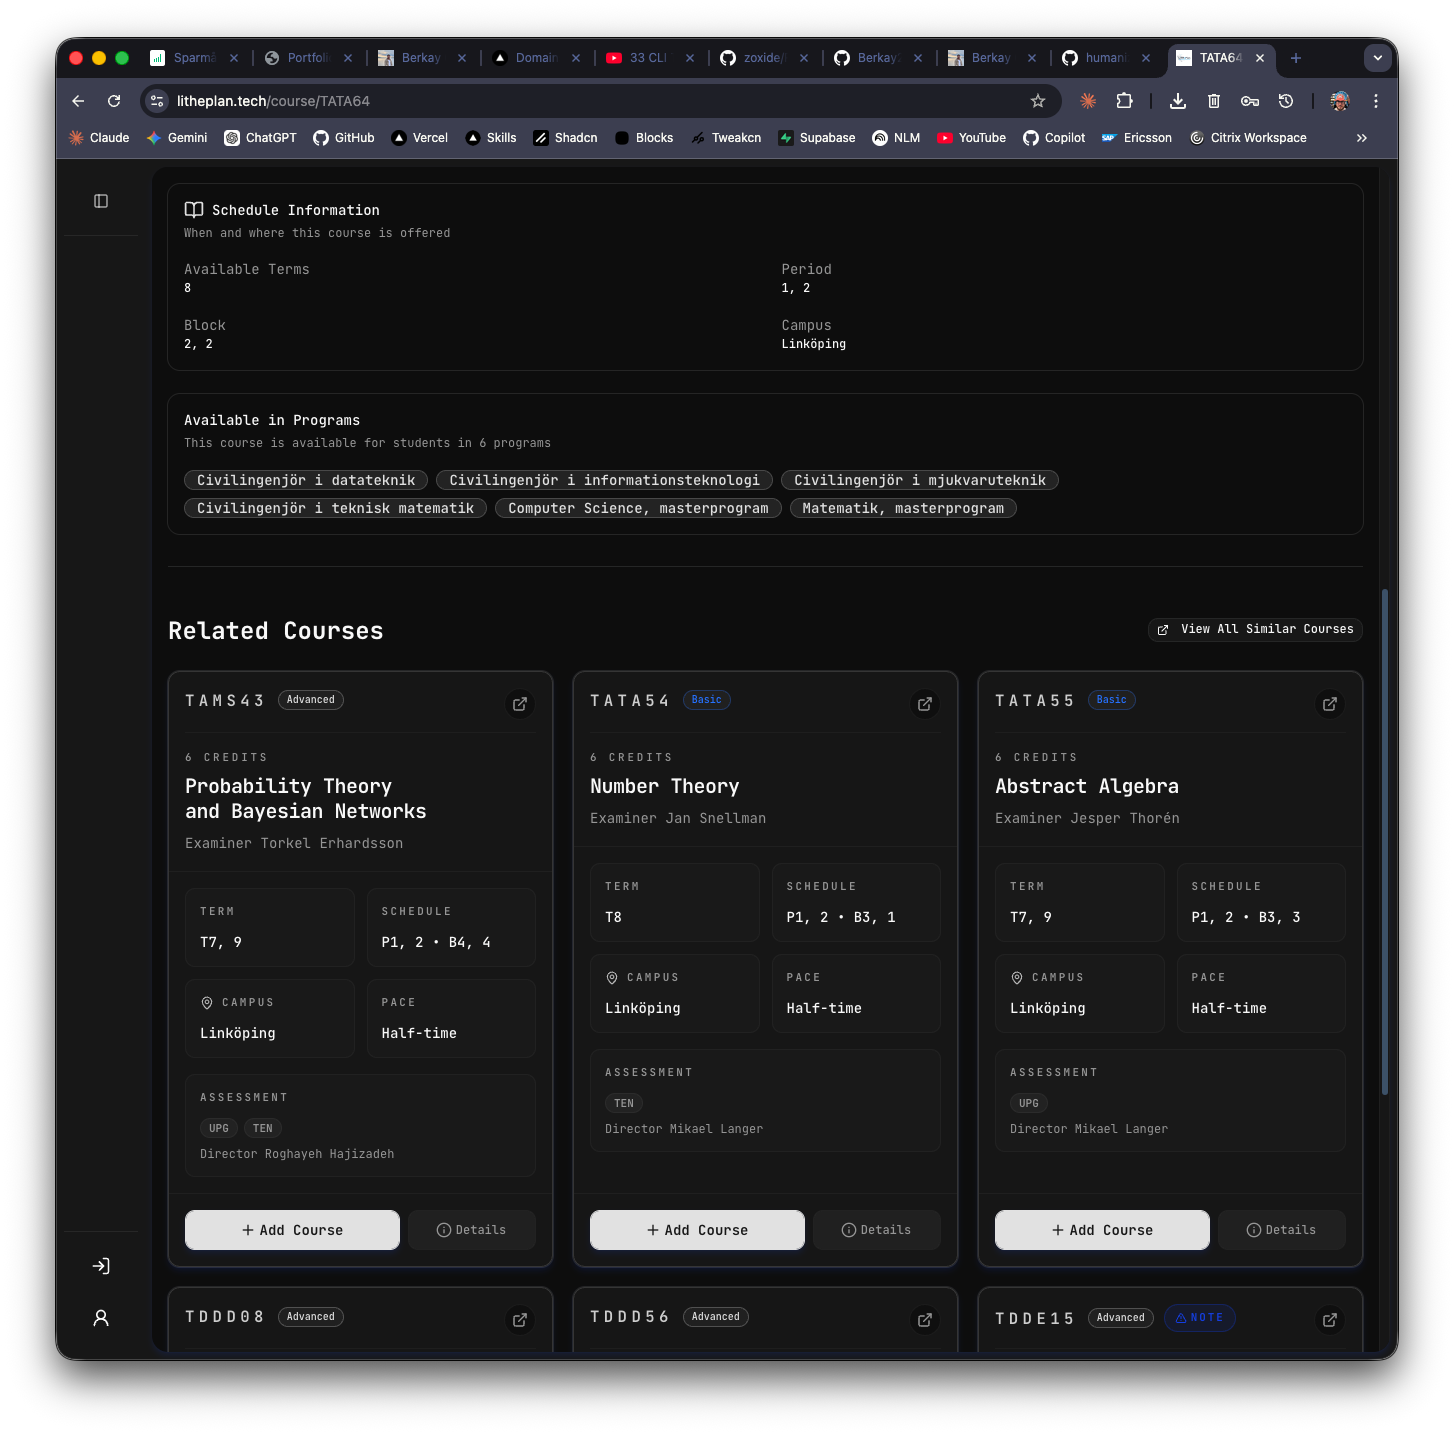
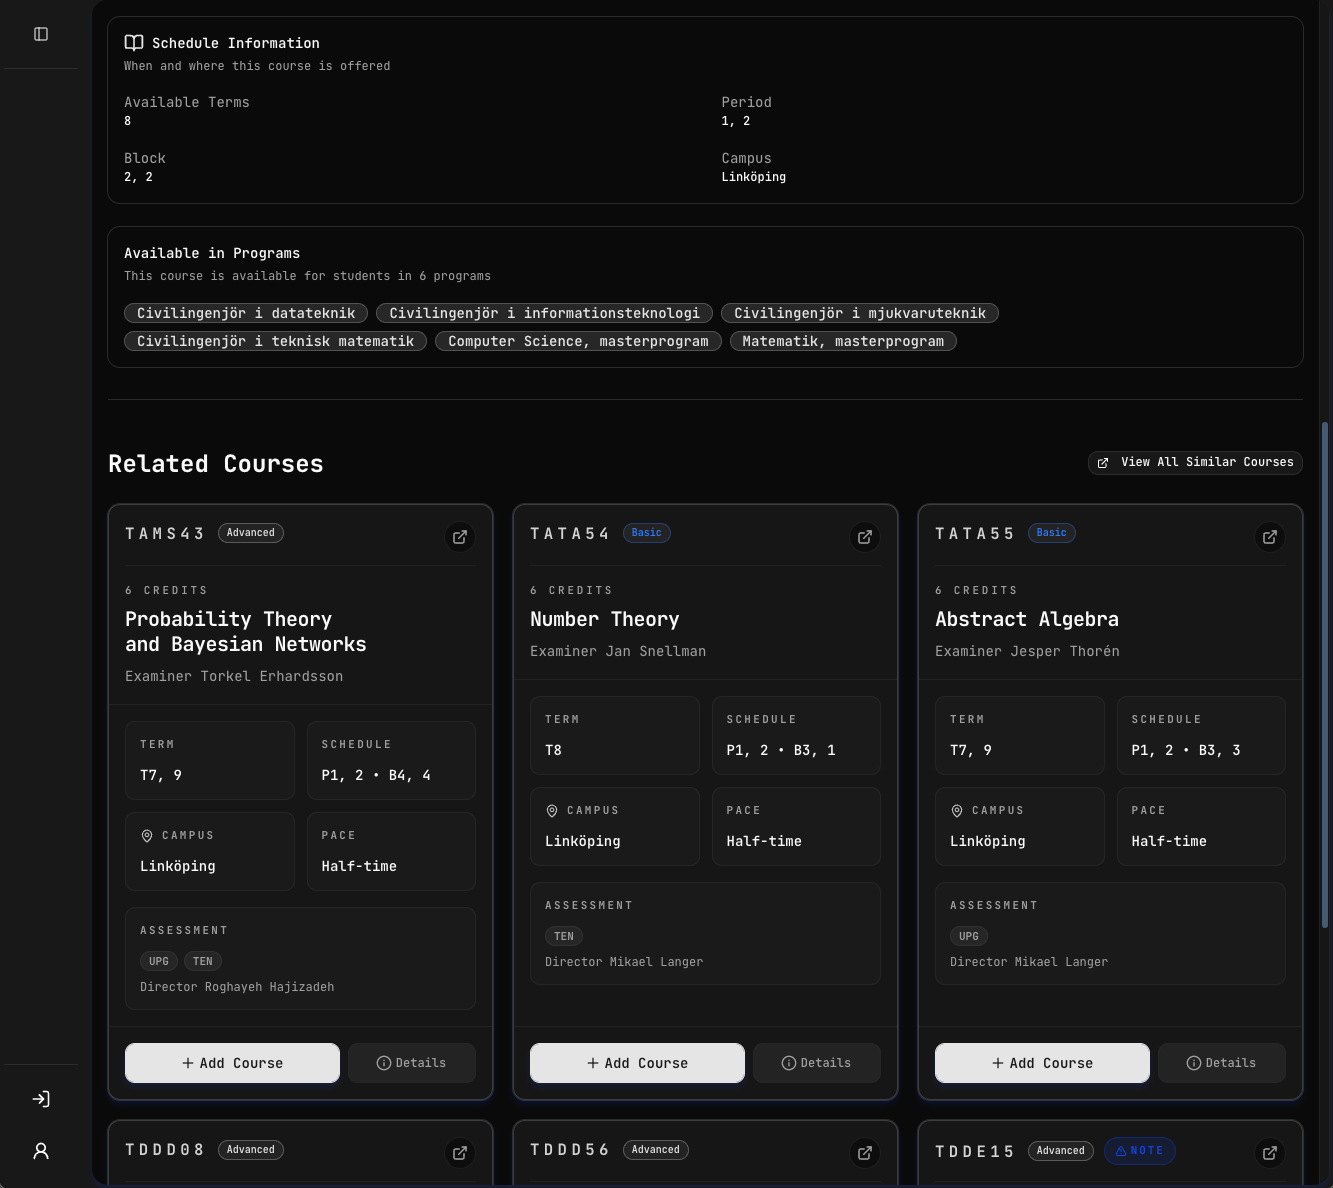
Project pages: wide cover and a sideways screenshot reel; browser frame cropped off the screenshots

diff --git a/components/landing/pages.tsx b/components/landing/pages.tsx
@@ -1,7 +1,7 @@
 "use client";
 
 import Link from "next/link";
-import { type ReactNode, useState } from "react";
+import { type ReactNode, useRef, useState } from "react";
 
 import { MarkdownLatexRenderer } from "@/components/ui/markdown-latex-renderer";
 import { papers } from "@/lib/data/papers";
@@ -155,25 +155,6 @@ export function ProjectDetail({ id }: { id: string }) {
         ))}
       </ul>,
     ]);
-  if (x.gallery?.length)
-    parts.push([
-      p.screens,
-      <div className="grid gap-10 lg:grid-cols-2" key="g">
-        {x.gallery.map((g) => (
-          <figure key={g.image}>
-            {g.video ? (
-              <video autoPlay className="w-full" loop muted playsInline poster={g.image}>
-                <source src={g.video} type="video/mp4" />
-              </video>
-            ) : (
-              // eslint-disable-next-line @next/next/no-img-element -- images are served unoptimized
-              <img alt={g.alt} className="w-full" loading="lazy" src={g.image} />
-            )}
-            {g.caption && <figcaption className="mt-2 text-(--dim) text-xs">{t(g.caption, g.captionSv)}</figcaption>}
-          </figure>
-        ))}
-      </div>,
-    ]);
 
   const year = projectMeta[id]?.year;
   return (
@@ -188,23 +169,100 @@ export function ProjectDetail({ id }: { id: string }) {
         <p className="mt-6 max-w-[60ch] text-(--fg)/80 text-sm leading-relaxed lg:text-base">{t(x.description, x.descriptionSv)}</p>
       </PageHead>
       {(x.video || x.image) && (
-        <div className={cn(pad, "mt-14 lg:mt-20")}>
+        // The cover runs from the text column to the page's right edge, hung off the trace by a faint rule.
+        <figure className="relative mt-14 pl-12 lg:mt-20 lg:pl-[4%]">
+          <span className="absolute top-0 left-5 h-px w-7 bg-(--faint) lg:left-[2%] lg:w-[2%]" />
+          <Tick className="top-0" />
           {x.video ? (
-            <video autoPlay className="w-full max-w-[1000px]" loop muted playsInline poster={x.image}>
+            <video autoPlay className="w-full max-w-[1400px]" loop muted playsInline poster={x.image}>
               <source src={x.video} type="video/mp4" />
             </video>
           ) : (
             // eslint-disable-next-line @next/next/no-img-element -- images are served unoptimized
-            <img alt={x.imageAlt || x.title} className="w-full max-w-[1000px]" src={x.image} />
+            <img alt={x.imageAlt || x.title} className="w-full max-w-[1400px]" src={x.image} />
           )}
-        </div>
+          {x.imageAlt && <figcaption className="mt-3 pr-6 text-(--dim) text-xs">{x.imageAlt}</figcaption>}
+        </figure>
       )}
       {parts.map(([title, body], i) => (
         <Part key={title} n={i + 1} title={title}>
           {body}
         </Part>
       ))}
+      {x.gallery?.length ? (
+        <section className="relative mt-16 lg:mt-24">
+          <Burst className="top-3.5" />
+          <h2 className={cn(pad, "text-lg leading-7 lg:text-xl")}>
+            <span className="text-(--dim) text-sm">{two(parts.length + 1)} / </span>
+            {p.screens}
+          </h2>
+          <Reel items={x.gallery.map((g) => ({ ...g, caption: t(g.caption, g.captionSv) }))} next={p.next} />
+        </section>
+      ) : null}
     </>
+  );
+}
+
+type Shot = { image: string; video?: string; alt?: string; caption?: string };
+
+// The screens as a sideways reel (design/approved/project-media-reel.png): large shots at one height on a
+// faint rule, a tick over each, the current one lime; the last one runs off the page's right edge.
+function Reel({ items, next }: { items: Shot[]; next: string }) {
+  const track = useRef<HTMLDivElement>(null);
+  const [at, setAt] = useState(0);
+  const shots = () => [...(track.current?.children ?? [])] as HTMLElement[];
+  const onScroll = () => {
+    const el = track.current;
+    if (!el) return;
+    const [first] = shots();
+    const left = el.scrollLeft + (first?.offsetLeft ?? 0);
+    // At the end of the track the last shot is current, even if it never reaches the left edge.
+    const end = el.scrollLeft + el.clientWidth >= el.scrollWidth - 2;
+    setAt(end ? items.length - 1 : shots().reduce((best, s, i) => (Math.abs(s.offsetLeft - left) < Math.abs((shots()[best]?.offsetLeft ?? 0) - left) ? i : best), 0));
+  };
+  const go = () => {
+    const el = track.current;
+    const [first] = shots();
+    const target = shots()[at + 1 < items.length ? at + 1 : 0];
+    if (el && first && target) el.scrollTo({ left: target.offsetLeft - first.offsetLeft });
+  };
+  return (
+    <div className="mt-6">
+      {items.length > 1 && (
+        <p className={cn(pad, "flex justify-end gap-6 text-sm")}>
+          <span className="text-(--dim) tabular-nums">
+            {two(at + 1)} / {two(items.length)}
+          </span>
+          <button className={under} onClick={go} type="button">
+            {next}
+          </button>
+        </p>
+      )}
+      <div
+        className="relative mt-3 ml-12 flex snap-x snap-mandatory overflow-x-auto [scrollbar-width:none] motion-safe:scroll-smooth lg:ml-[4%]"
+        onScroll={onScroll}
+        ref={track}
+      >
+        {items.map((g, i) => (
+          <figure className="relative shrink-0 snap-start border-(--faint) border-t pt-6 pr-6 lg:pr-8" key={g.video ?? g.image}>
+            <span className={cn("-translate-y-1/2 absolute top-0 left-0 size-2 rounded-full", i === at ? "bg-(--lime)" : "bg-(--dim)/60")} />
+            {g.video ? (
+              <video autoPlay className="w-[78vw] lg:h-[clamp(280px,30vw,440px)] lg:w-auto" loop muted playsInline poster={g.image}>
+                <source src={g.video} type="video/mp4" />
+              </video>
+            ) : (
+              // eslint-disable-next-line @next/next/no-img-element -- images are served unoptimized
+              <img alt={g.alt ?? ""} className="w-[78vw] lg:h-[clamp(280px,30vw,440px)] lg:w-auto" loading="lazy" src={g.image} />
+            )}
+            {/* As wide as the shot, never wider. */}
+            <figcaption className="mt-3 flex w-0 min-w-full gap-3 text-xs leading-relaxed">
+              <span className="text-(--dim)">{two(i + 1)}</span>
+              <span className="text-(--dim)">{g.caption}</span>
+            </figcaption>
+          </figure>
+        ))}
+      </div>
+    </div>
   );
 }
 

diff --git a/design/README.md b/design/README.md
@@ -3,7 +3,9 @@
 Status: approved and built (2026-10-06). The hero is `hero-r2-e4-hoodie` (`design/approved/landing-desktop.png`),
 the rest of the page is `landing-r2.md` ("the signal", `design/approved/landing-s*.png`) and the phone
 boards are `landing-mobile-r1.md` (`design/approved/landing-mobile-*.png`). About's "how I build" is
-`stack-r4.md` a-surfaces (`design/approved/landing-s5-stack.png`), and the photo section is
+`stack-r4.md` a-surfaces (`design/approved/landing-s5-stack.png`), with each layer's line running on
+to the projects built with it from `about-r1.md` b-used-in (`design/approved/about-used-in.png`;
+wide screens only, phones list them under the layer), and the photo section is
 `photos-r3.md` b-prints (`design/approved/photos-prints.png`). The build is `app/page.tsx`
 with `components/landing/`; screenshots of it are in `design/screens/`.
 
@@ -14,6 +16,9 @@ the left lane; sections hang a burst off it
 the thesis benchmark `thesis.tsx` and the FastTalk benchmark `fasttalk.tsx`. Departures from the
 mockups: the thesis tradeoff scatter and the FastTalk radar chart are left out, and FastTalk's run
 chart plots the 20 per-run values the data has (10 short, 10 medium questions), not 30.
+A project's media follow `project-media-r1.md` a-reel (`design/approved/project-media-reel.png`): the
+cover runs wide under the lede and the screenshots or videos run as a sideways reel with "01 / 07
+Next". The Stats for Spotify and LiTHePlan screenshots had their browser frame cropped off.
 
 ## The system
 

diff --git a/design/specs/project-media-r1.md b/design/specs/project-media-r1.md
@@ -1,5 +1,8 @@
 # Project media r1: screenshots and videos on a project page
 
+Status: a-reel approved and built (2026-10-06, `design/approved/project-media-reel.png`). The others
+are deleted; git history keeps them.
+
 The built project pages (`/projects/<id>`, from `pages-r1.md` b-project) show a project's media badly:
 the cover screenshot sits small under the lede with the browser chrome still on it, and "Screens" is a
 two-column grid of thumbnails inside the text column, with captions drifting below. Videos look the
